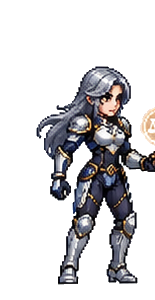
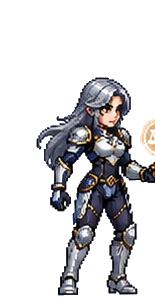
Personajes bien plantados en el suelo
- La linea base de los sprites se toma solo de las poses idle/walk
  (las lineas de movimiento de otras poses la hundian y dejaban a
  los personajes flotando)
- El piso del escenario se dibuja ahora exactamente en la linea de
  los pies (estaba 10px mas abajo desde el principio)

Changed region(s): [[0.2323, 0.21, 1.0, 0.99]]

diff --git a/js/game.js b/js/game.js
@@ -644,11 +644,11 @@ function drawStage() {
   [[0, 300, 90], [70, 250, 110], [160, 330, 70], [780, 280, 100], [870, 320, 80], [930, 260, 95]]
     .forEach(([x, y, w]) => ctx.fillRect(x, y, w, FLOOR_Y - y + 20));
 
-  // piso
+  // piso (el borde superior coincide con la línea donde pisan los pies)
   ctx.fillStyle = '#292433';
-  ctx.fillRect(0, FLOOR_Y + 10, W, H - FLOOR_Y);
+  ctx.fillRect(0, FLOOR_Y, W, H - FLOOR_Y);
   ctx.fillStyle = '#3f3a4d';
-  ctx.fillRect(0, FLOOR_Y + 10, W, 6);
+  ctx.fillRect(0, FLOOR_Y, W, 6);
 }
 
 function drawHealthBar(f, x, mirrored) {
